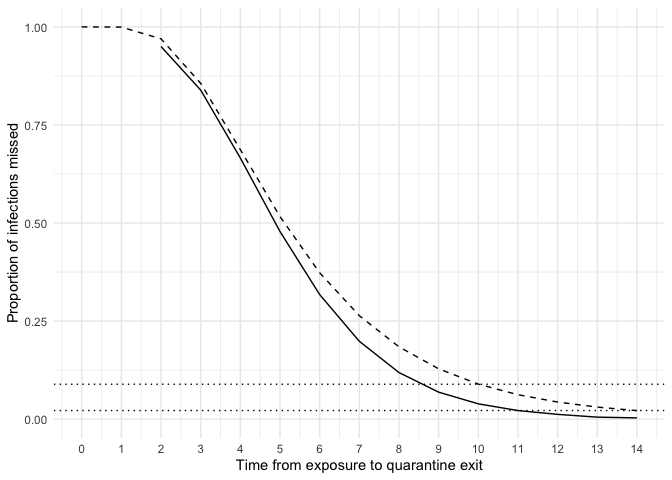
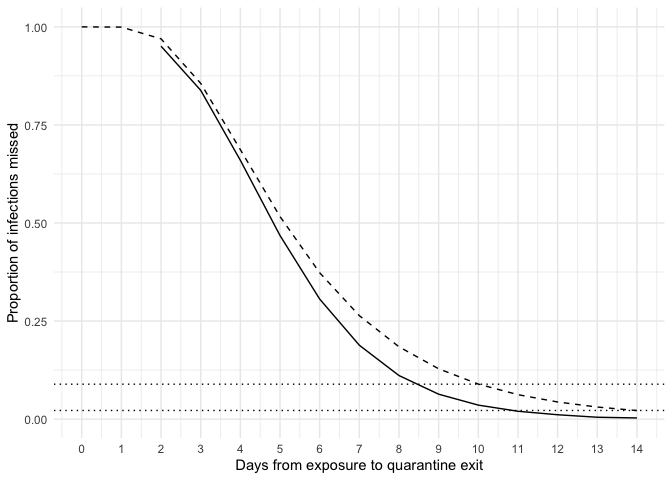
change tolerance

diff --git a/README.md b/README.md
@@ -69,7 +69,7 @@ ggplot(d, aes(x = qt, y = p)) +
   scale_x_continuous(breaks = 0:14, limits = c(0, 14)) +
   geom_hline(yintercept = c(0.089, 0.022), lty = 3) +
   theme_minimal() +
-  labs(x = "Time from exposure to quarantine exit",
+  labs(x = "Days from exposure to quarantine exit",
        y = "Proportion of infections missed")
 ```
 
@@ -81,7 +81,7 @@ with additional quarantine days.
 ``` r
 vals <- expand.grid(
   t = c(0, 3, 5, 7, 10),
-  s = 0:14
+  s = seq(0, 14, 0.1)
 )
 vals$p <- purrr::map2_dbl(vals$t, vals$s, get_prob_missed_infection)
 vals$qt <- vals$t + vals$s
@@ -94,7 +94,7 @@ ggplot(vals, aes(x = qt, y = p, color = as.factor(t))) +
   geom_hline(yintercept = c(0.089, 0.022), lty = 3) +
   geom_point(data = test_date, aes(x = t, y = p)) +
   theme_minimal() +
-  labs(x = "Time from exposure to quarantine exit",
+  labs(x = "Days from exposure to quarantine exit",
        y = "Proportion of infections missed",
        color = "Day test sample \nwas collected") +
   theme(panel.grid.minor = element_blank(),
